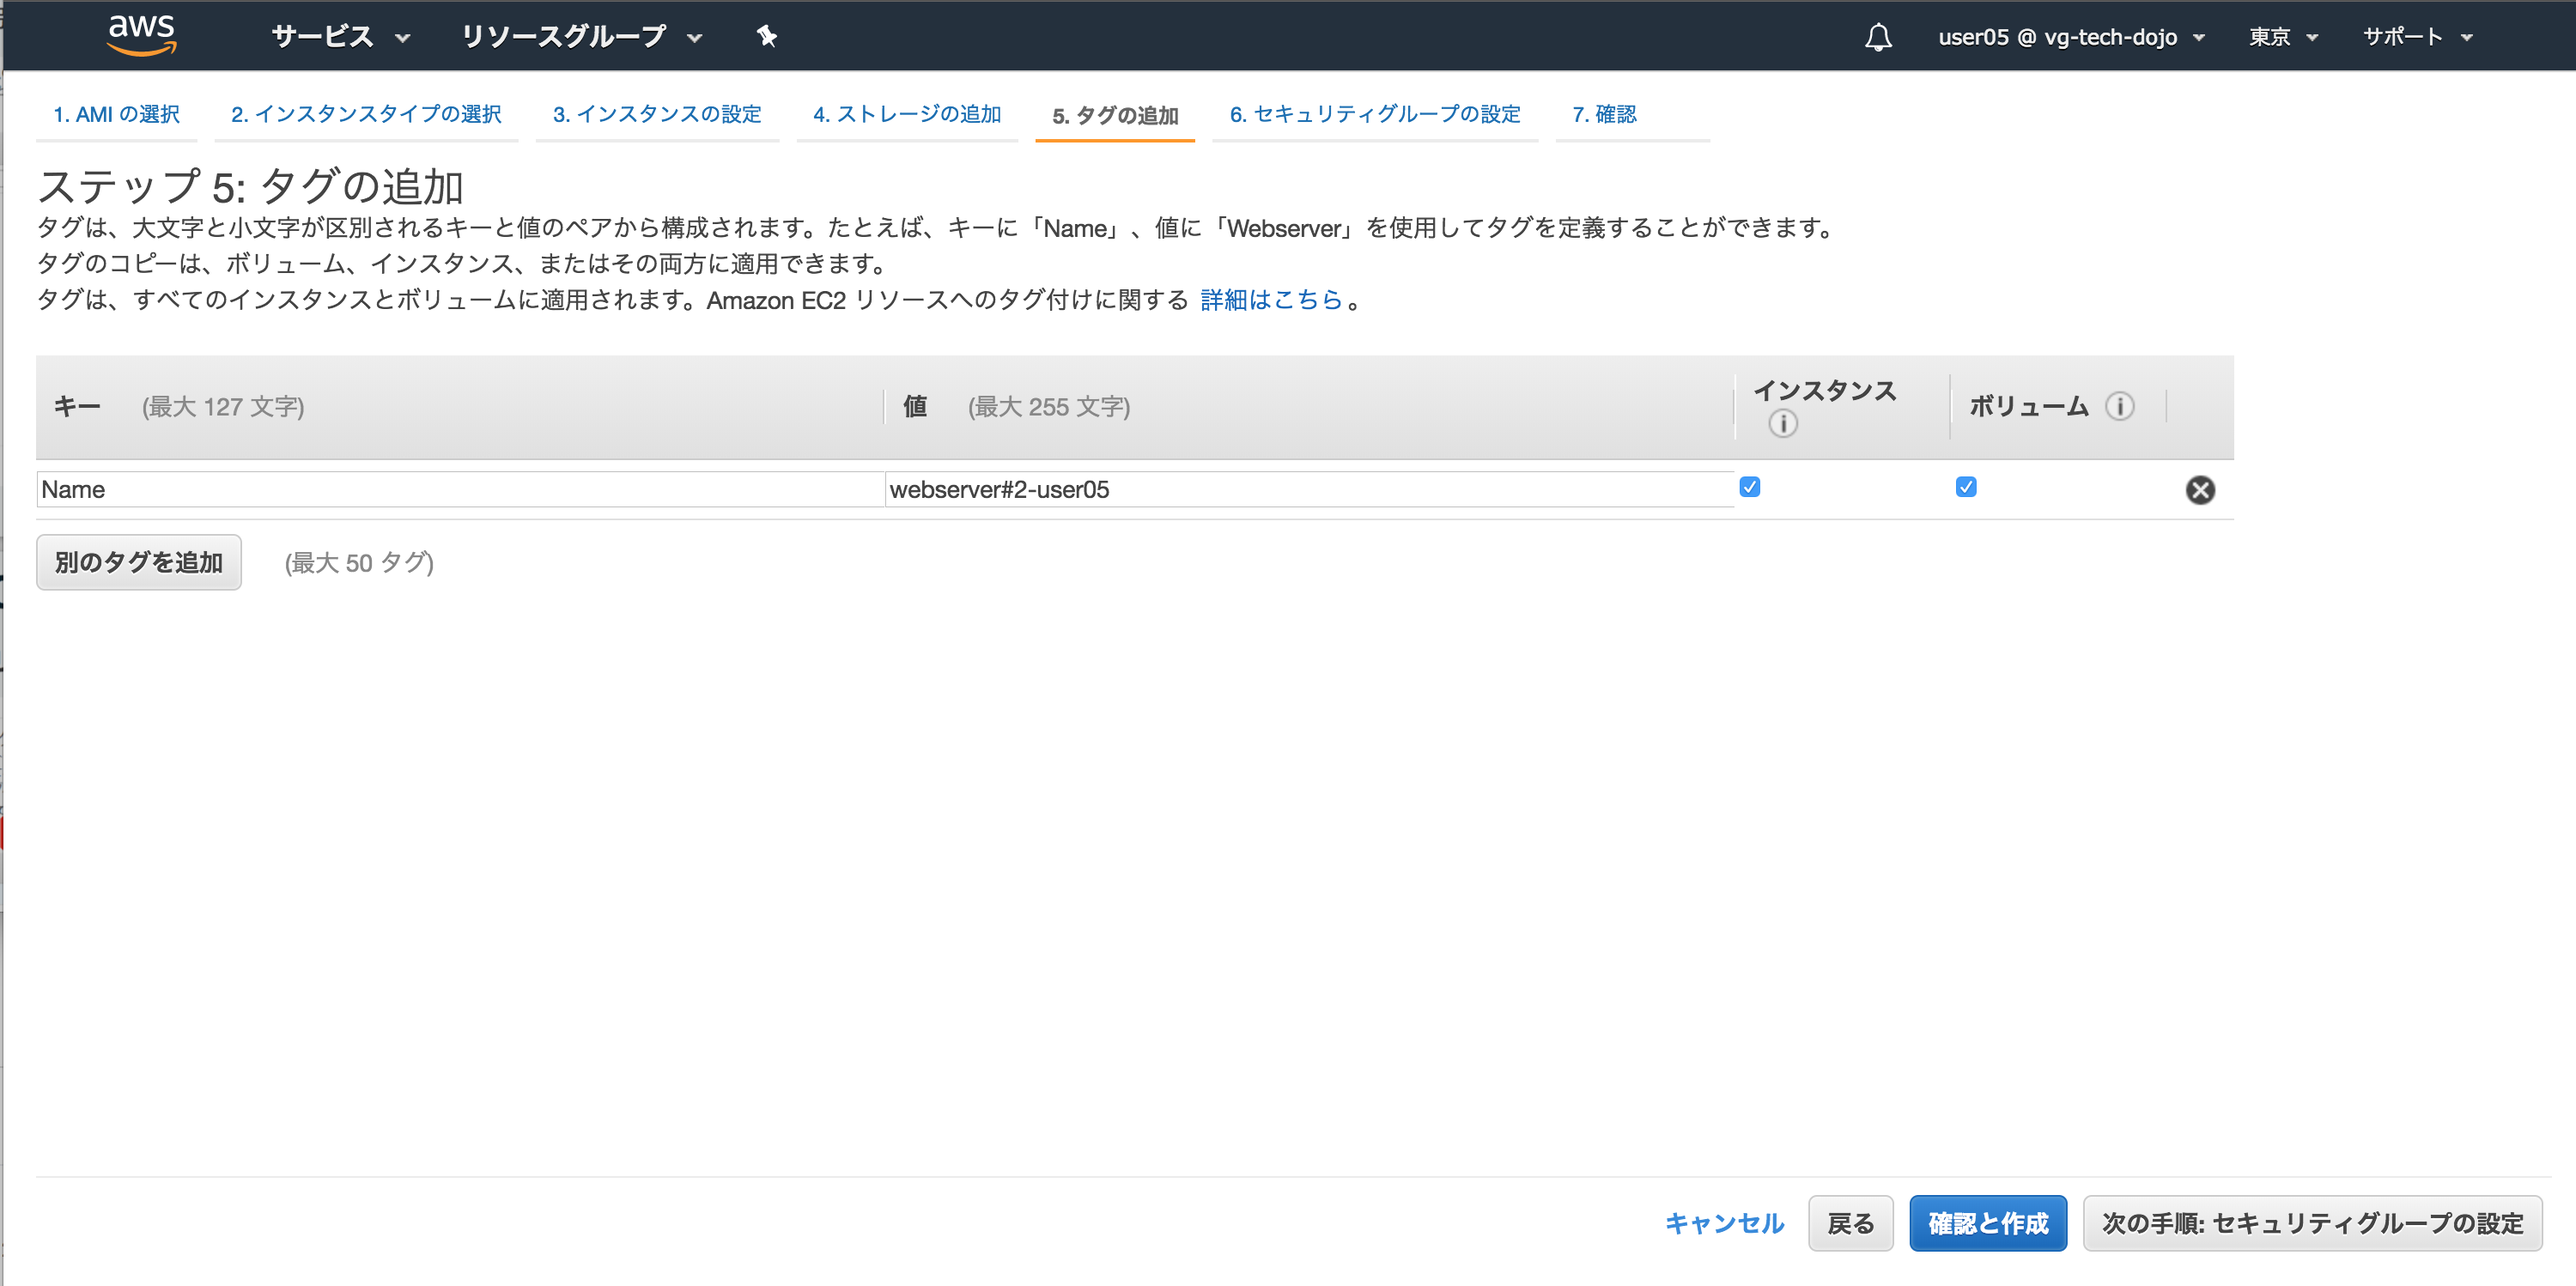
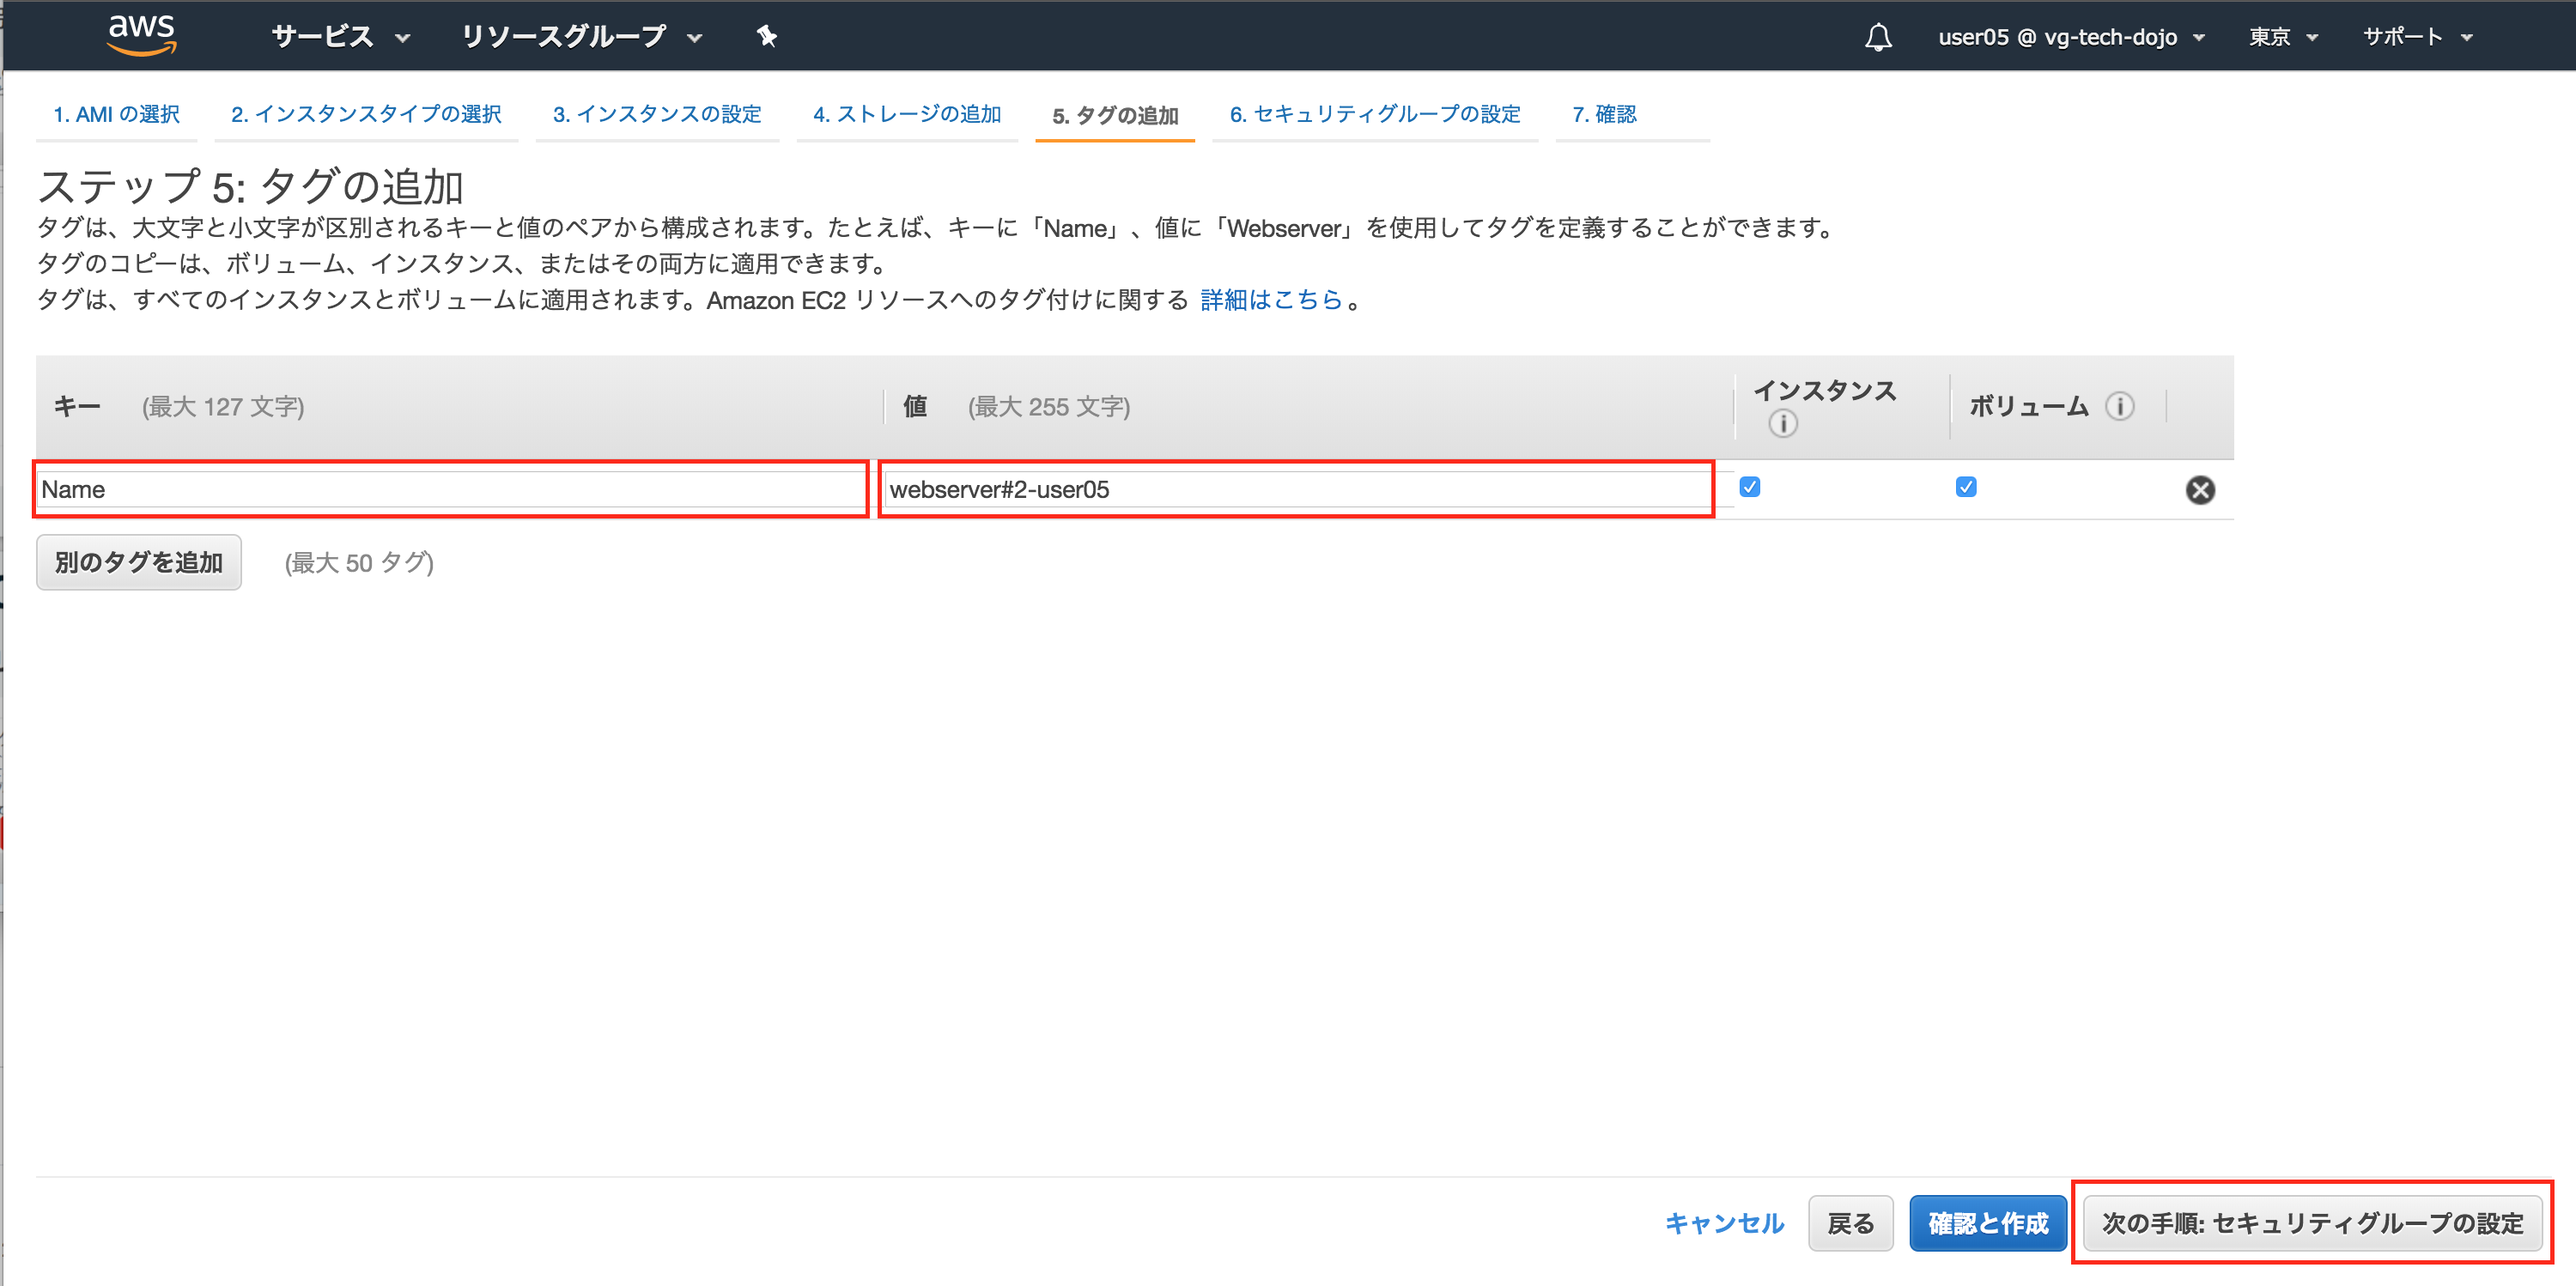
commit

diff --git a/Step-3.md b/Step-3.md
@@ -251,6 +251,8 @@ Address: 10.0.2.226
 ![create-ec2-6](./images/step-3/create-ec2-6.png "CREATE-EC2-6")
 
 ----
+**キー「Name」、値「webserver#2-userXX」XXはユーザIDを設定し、次の手順：セキュリティグループの設定を押下**
+
 ![create-ec2-7](./images/step-3/create-ec2-7.png "CREATE-EC2-7")
 
 ----
